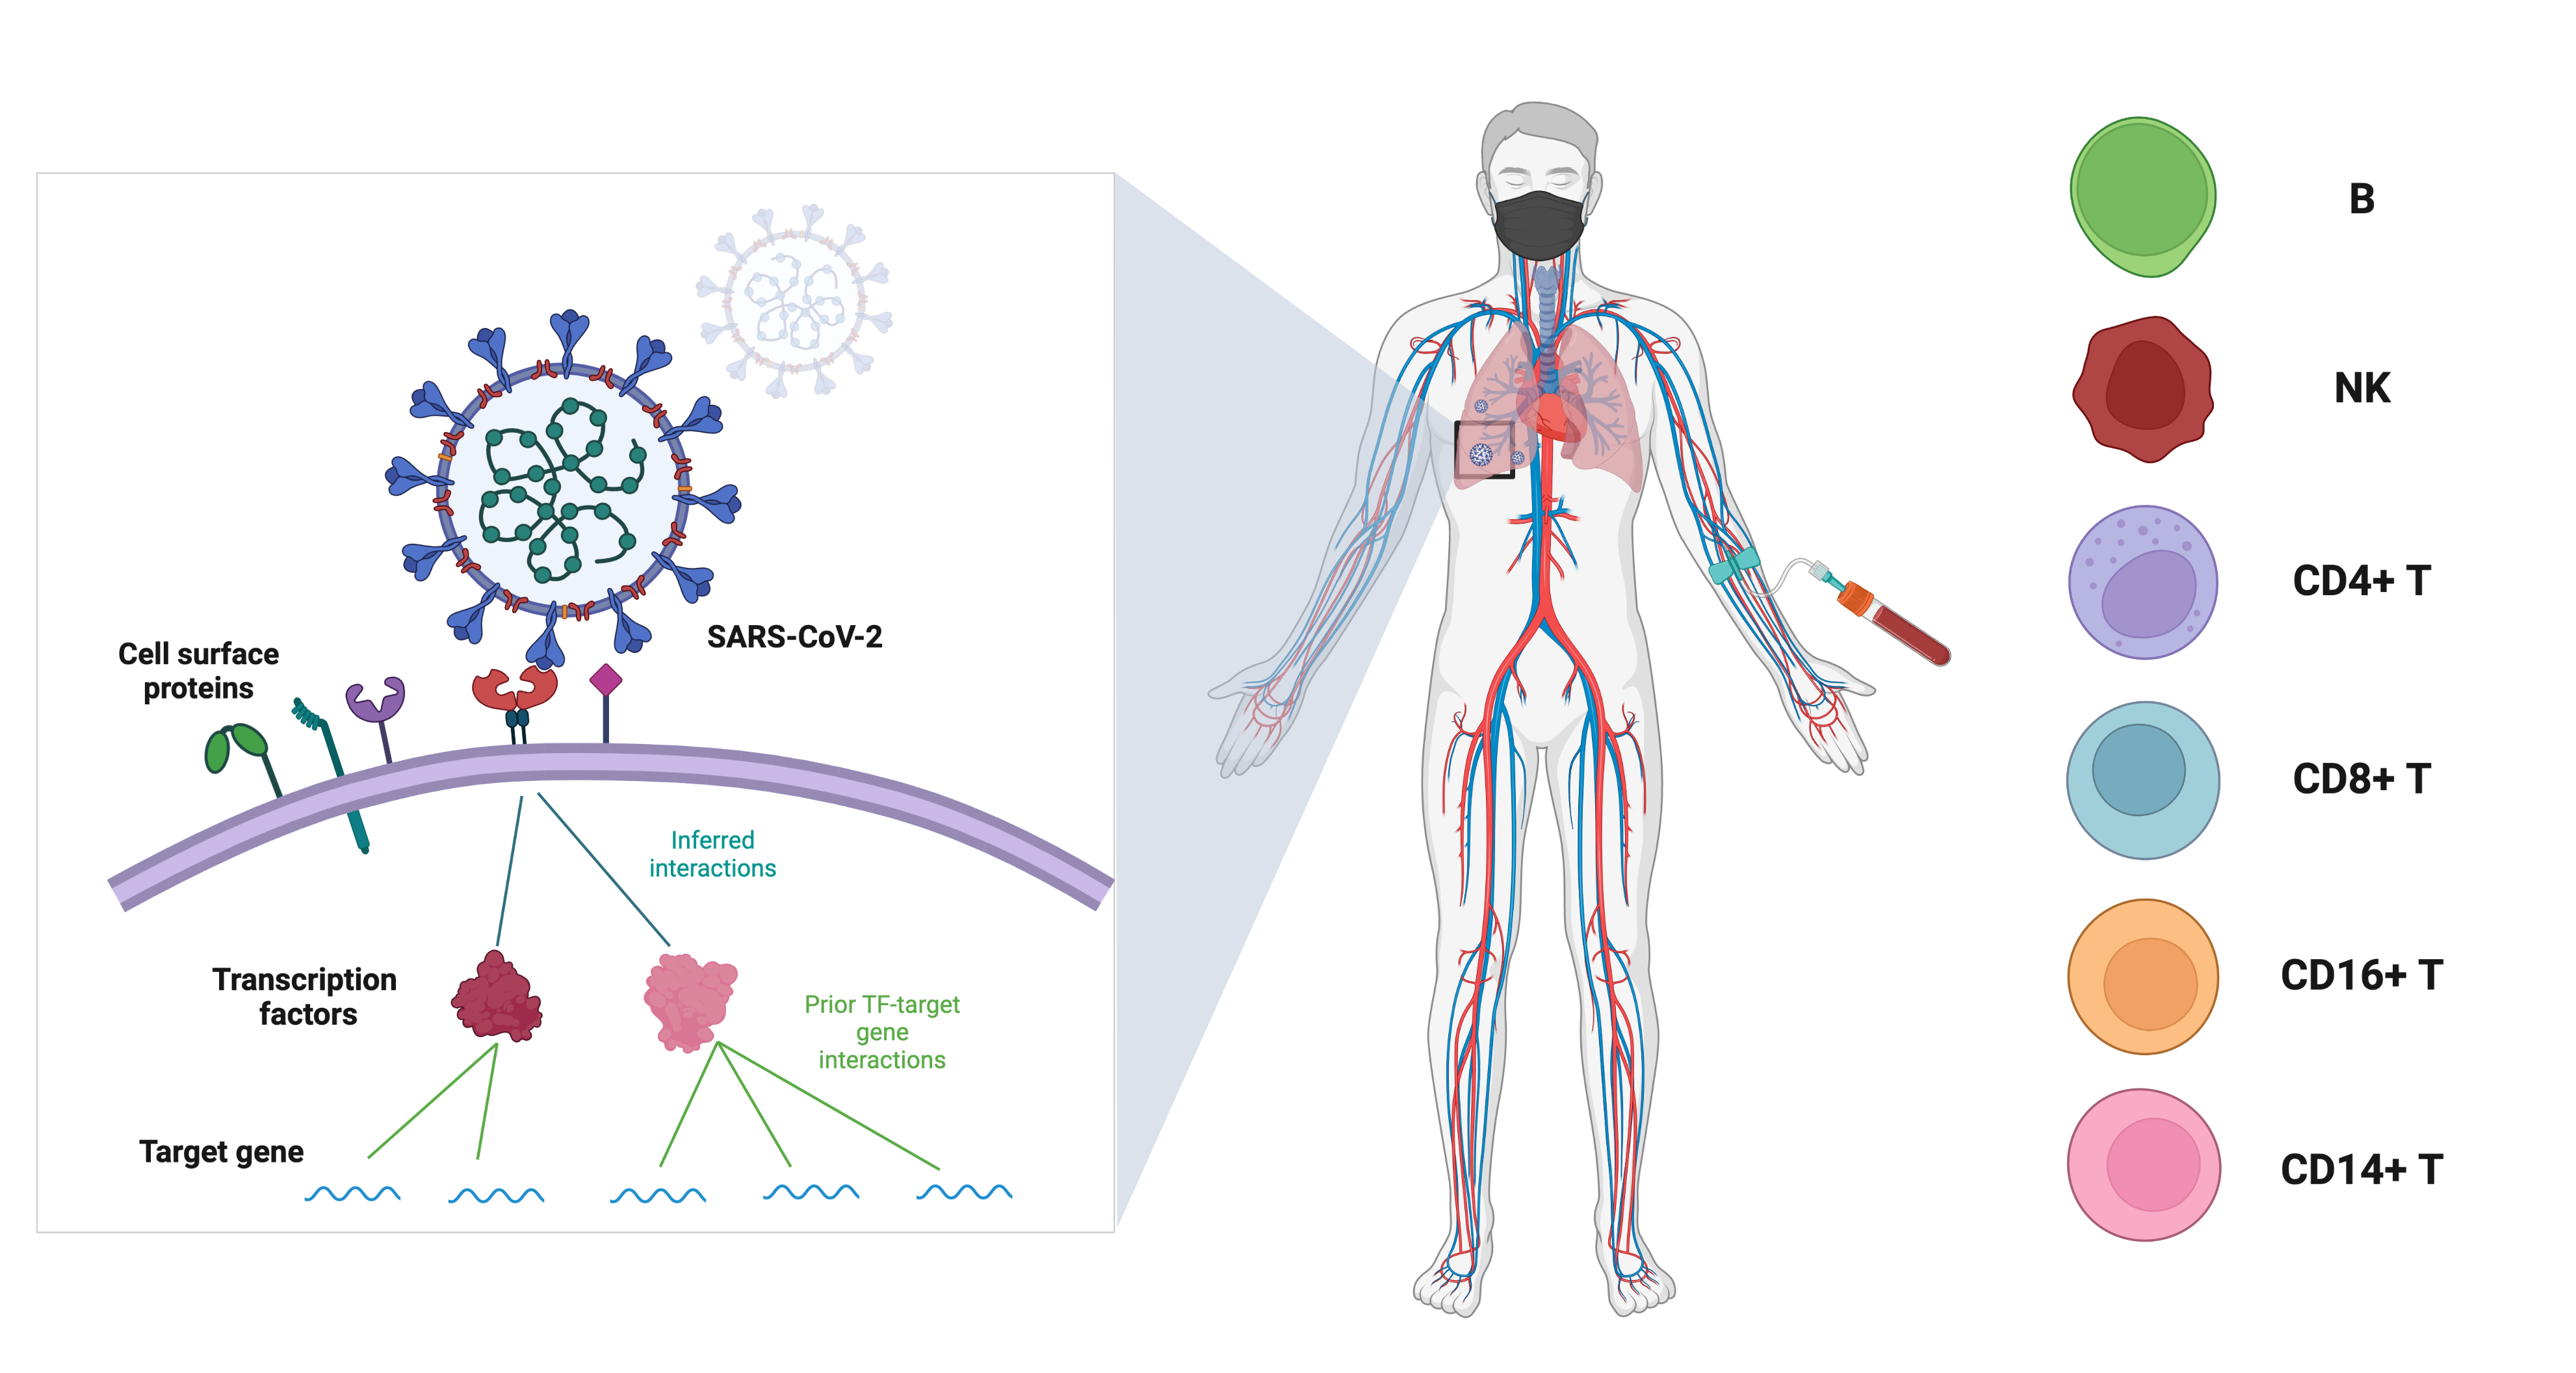
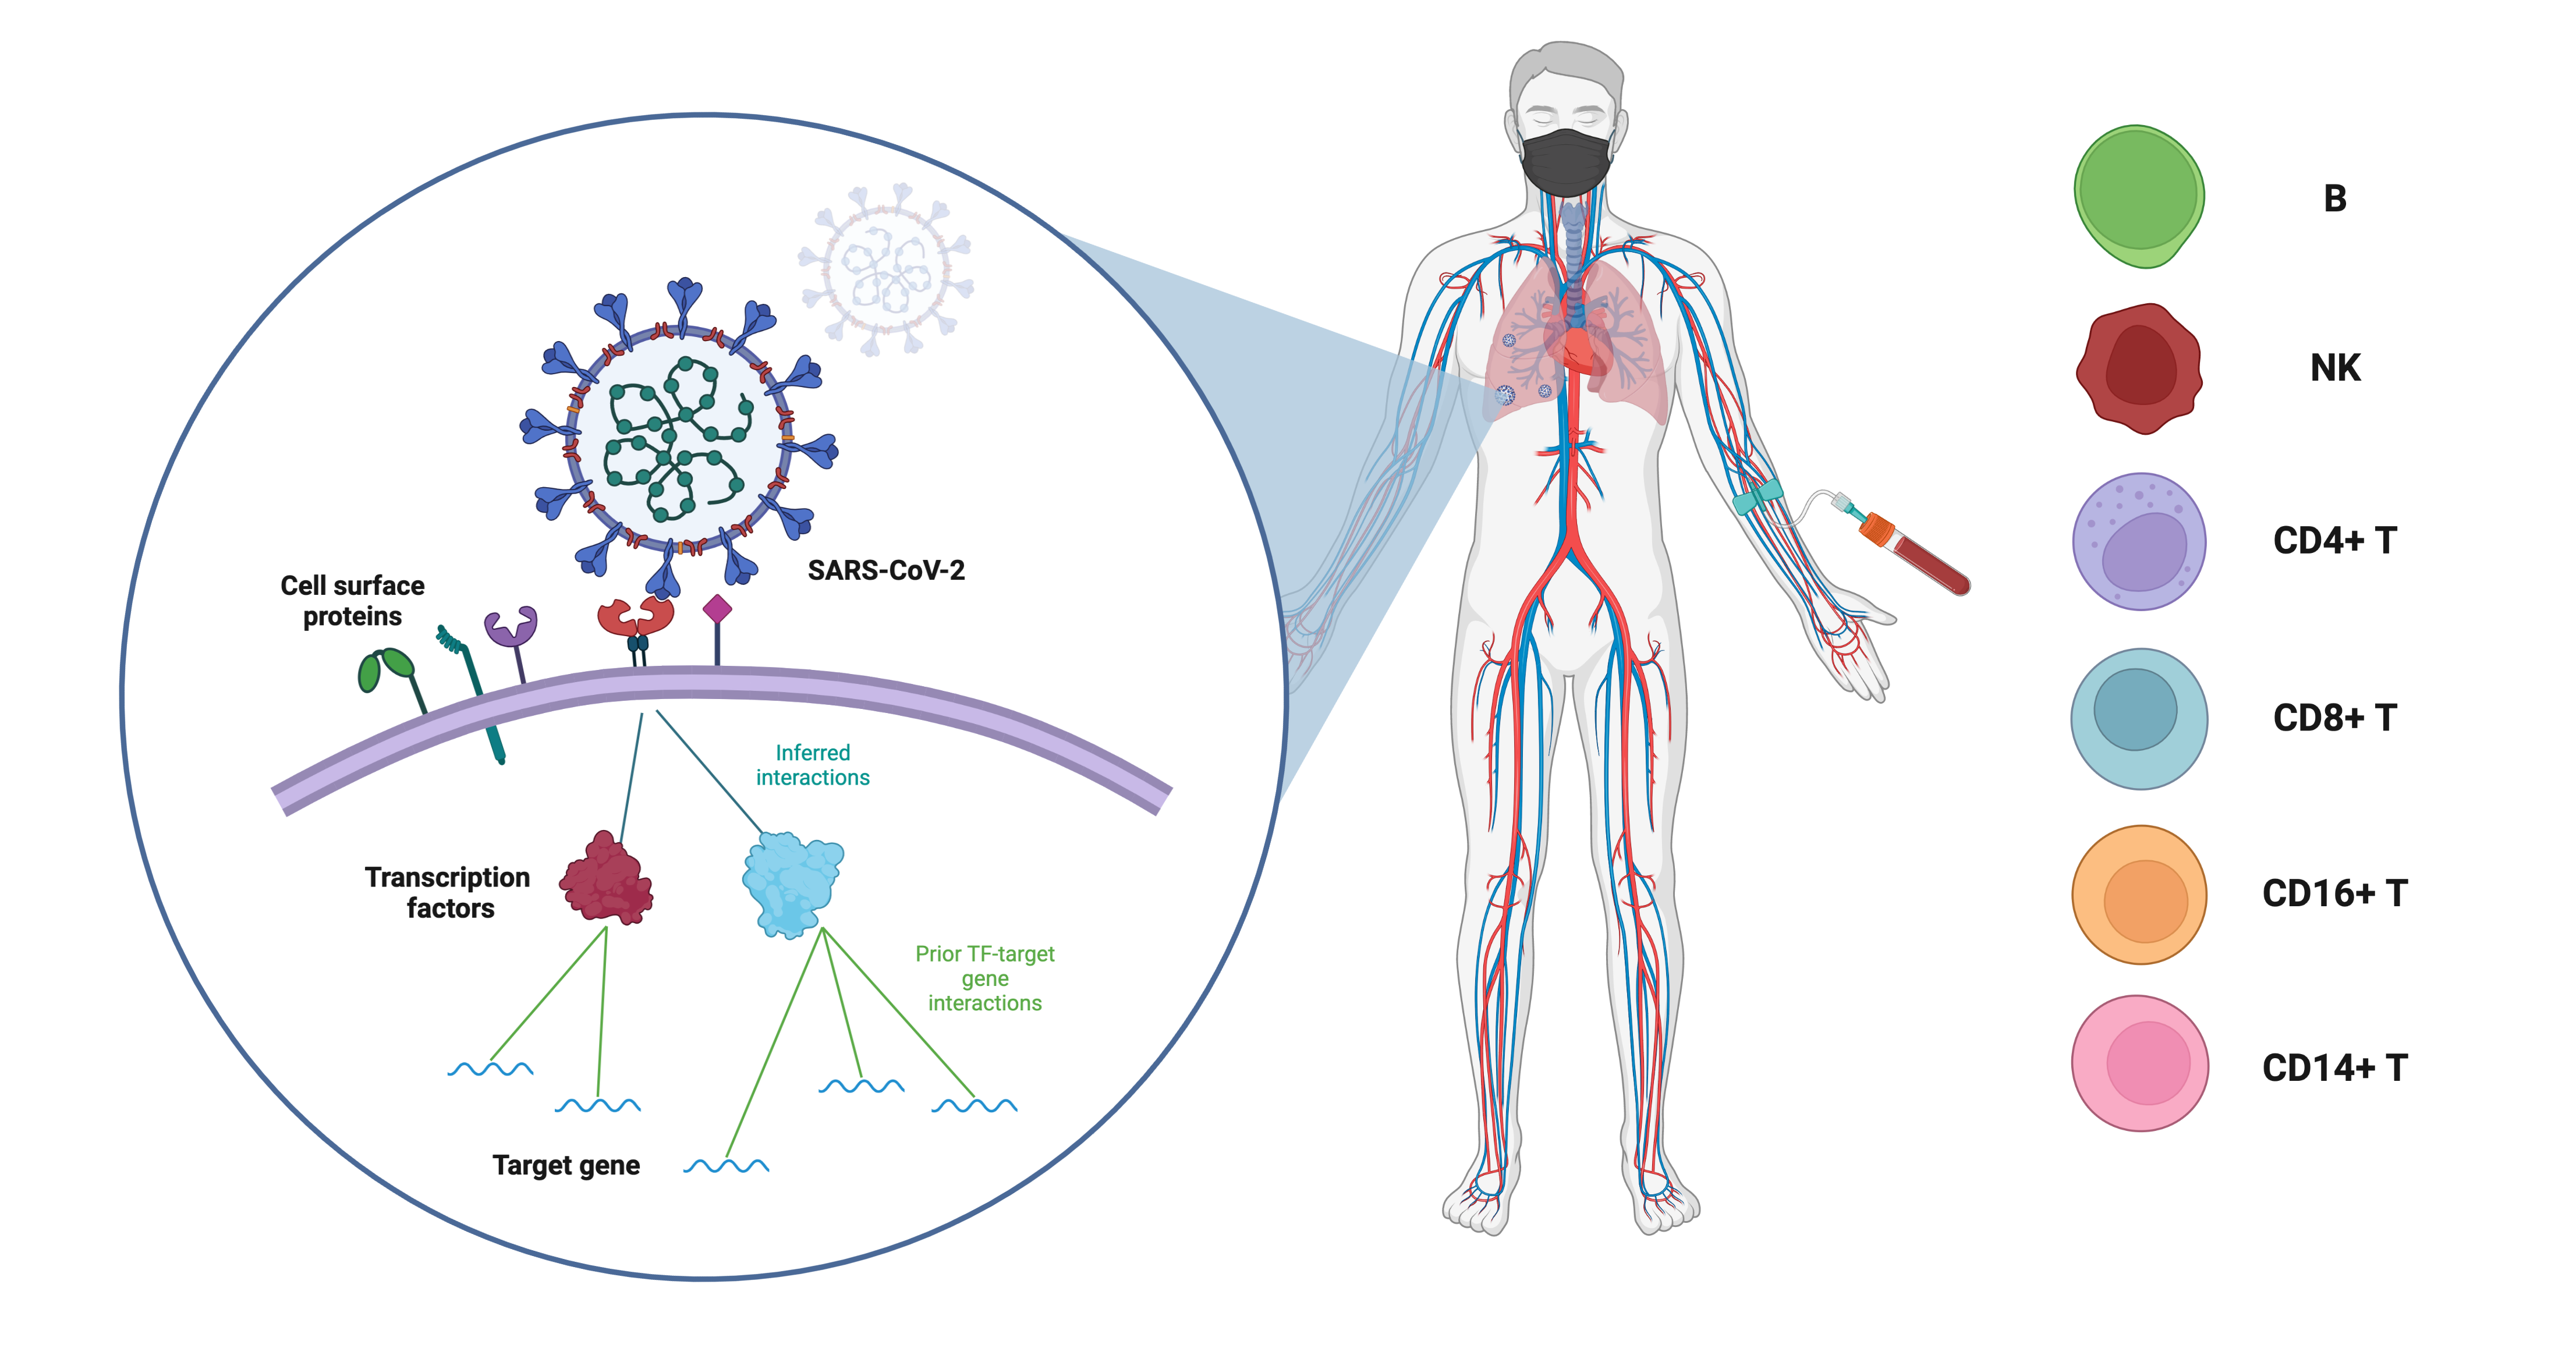
prototype dataset page

diff --git a/utils/ppi.html b/utils/ppi.html
@@ -1,0 +1,108 @@
+<html>
+<head>
+<link rel="stylesheet" href="https://cdnjs.cloudflare.com/ajax/libs/vis/4.16.1/vis.css" type="text/css" />
+<script type="text/javascript" src="https://cdnjs.cloudflare.com/ajax/libs/vis/4.16.1/vis-network.min.js"> </script>
+<center>
+<h1></h1>
+</center>
+
+<!-- <link rel="stylesheet" href="../node_modules/vis/dist/vis.min.css" type="text/css" />
+<script type="text/javascript" src="../node_modules/vis/dist/vis.js"> </script>-->
+
+<style type="text/css">
+
+        #mynetwork {
+            width: 500px;
+            height: 500px;
+            background-color: #ffffff;
+            border: 1px solid lightgray;
+            position: relative;
+            float: left;
+        }
+
+        
+
+        
+
+        
+</style>
+
+</head>
+
+<body>
+<div id = "mynetwork"></div>
+
+
+<script type="text/javascript">
+
+    // initialize global variables.
+    var edges;
+    var nodes;
+    var network; 
+    var container;
+    var options, data;
+
+    
+    // This method is responsible for drawing the graph, returns the drawn network
+    function drawGraph() {
+        var container = document.getElementById('mynetwork');
+        
+        
+
+        // parsing and collecting nodes and edges from the python
+        nodes = new vis.DataSet([{"color": "#7f5159", "id": "IRF8", "label": "IRF8", "shape": "dot"}, {"color": "#30ffce", "id": "GATA2", "label": "GATA2", "shape": "dot"}, {"color": "#143ce3", "id": "IRF4", "label": "IRF4", "shape": "dot"}, {"color": "#839d39", "id": "TBP", "label": "TBP", "shape": "dot"}, {"color": "#daebc2", "id": "GATA1", "label": "GATA1", "shape": "dot"}, {"color": "#c9fdfd", "id": "JUN", "label": "JUN", "shape": "dot"}, {"color": "#fadfa4", "id": "CEBPA", "label": "CEBPA", "shape": "dot"}, {"color": "#ed1f79", "id": "CSF3R", "label": "CSF3R", "shape": "dot"}, {"color": "#9acddb", "id": "CEBPE", "label": "CEBPE", "shape": "dot"}, {"color": "#25cd07", "id": "EP300", "label": "EP300", "shape": "dot"}, {"color": "#7b9dcb", "id": "JAK1", "label": "JAK1", "shape": "dot"}, {"color": "#2dfd2", "id": "SRC", "label": "SRC", "shape": "dot"}, {"color": "#4b4621", "id": "HIF1A", "label": "HIF1A", "shape": "dot"}, {"color": "#eebee1", "id": "PIAS3", "label": "PIAS3", "shape": "dot"}, {"color": "#6b631b", "id": "EGFR", "label": "EGFR", "shape": "dot"}, {"color": "#c57662", "id": "JAK2", "label": "JAK2", "shape": "dot"}, {"color": "#d48511", "id": "HSP90AA1", "label": "HSP90AA1", "shape": "dot"}, {"color": "#c5180d", "id": "IL10RA", "label": "IL10RA", "shape": "dot"}, {"color": "#c18eff", "id": "NANOG", "label": "NANOG", "shape": "dot"}, {"color": "#324c74", "id": "ATF2", "label": "ATF2", "shape": "dot"}, {"color": "#8eb96d", "id": "SMAD3", "label": "SMAD3", "shape": "dot"}, {"color": "#c701c9", "id": "BATF3", "label": "BATF3", "shape": "dot"}, {"color": "#e6fc5f", "id": "MAPK8", "label": "MAPK8", "shape": "dot"}, {"color": "#e2263b", "id": "CTNNB1", "label": "CTNNB1", "shape": "dot"}, {"color": "#571bdc", "id": "FOS", "label": "FOS", "shape": "dot"}, {"color": "#efe37c", "id": "MAPK10", "label": "MAPK10", "shape": "dot"}, {"color": "#c1aaf0", "id": "FOSL1", "label": "FOSL1", "shape": "dot"}, {"color": "#a8dd6d", "id": "MAPK9", "label": "MAPK9", "shape": "dot"}, {"color": "#9a3a40", "id": "SPI1", "label": "SPI1", "shape": "dot"}, {"color": "#17288b", "id": "STAT3", "label": "STAT3", "shape": "dot"}, {"color": "#ddcdf5", "id": "BATF", "label": "BATF", "shape": "dot"}, {"color": "#4f40bf", "id": "MYD88", "label": "MYD88", "shape": "dot"}, {"color": "#7d6d7c", "id": "BCL6", "label": "BCL6", "shape": "dot"}, {"color": "#f87d33", "id": "FOXP3", "label": "FOXP3", "shape": "dot"}, {"color": "#ca9e3c", "id": "NFATC2", "label": "NFATC2", "shape": "dot"}, {"color": "#f9d0da", "id": "NFATC1", "label": "NFATC1", "shape": "dot"}, {"color": "#33d35d", "id": "PPARGC1A", "label": "PPARGC1A", "shape": "dot"}]);
+        edges = new vis.DataSet([{"from": "SPI1", "to": "IRF8", "value": 0.0999}, {"from": "SPI1", "to": "GATA2", "value": 0.0998}, {"from": "SPI1", "to": "IRF4", "value": 0.0997}, {"from": "SPI1", "to": "TBP", "value": 0.0996}, {"from": "SPI1", "to": "GATA1", "value": 0.0995}, {"from": "SPI1", "to": "JUN", "value": 0.0993}, {"from": "SPI1", "to": "CEBPA", "value": 0.0993}, {"from": "SPI1", "to": "CSF3R", "value": 0.0988}, {"from": "SPI1", "to": "CEBPE", "value": 0.0985}, {"from": "SPI1", "to": "EP300", "value": 0.0984}, {"from": "STAT3", "to": "JAK1", "value": 0.0999}, {"from": "STAT3", "to": "SRC", "value": 0.0999}, {"from": "STAT3", "to": "HIF1A", "value": 0.0999}, {"from": "STAT3", "to": "PIAS3", "value": 0.0999}, {"from": "STAT3", "to": "EGFR", "value": 0.0999}, {"from": "STAT3", "to": "JAK2", "value": 0.0999}, {"from": "STAT3", "to": "HSP90AA1", "value": 0.0999}, {"from": "STAT3", "to": "EP300", "value": 0.0999}, {"from": "STAT3", "to": "IL10RA", "value": 0.0998}, {"from": "STAT3", "to": "NANOG", "value": 0.0998}, {"from": "JUN", "to": "ATF2", "value": 0.0999}, {"from": "JUN", "to": "EP300", "value": 0.0999}, {"from": "JUN", "to": "SMAD3", "value": 0.0999}, {"from": "JUN", "to": "BATF3", "value": 0.0999}, {"from": "JUN", "to": "MAPK8", "value": 0.0999}, {"from": "JUN", "to": "CTNNB1", "value": 0.0999}, {"from": "JUN", "to": "FOS", "value": 0.0999}, {"from": "JUN", "to": "MAPK10", "value": 0.0999}, {"from": "JUN", "to": "FOSL1", "value": 0.0999}, {"from": "JUN", "to": "MAPK9", "value": 0.0999}, {"from": "IRF4", "to": "JUN", "value": 0.0997}, {"from": "IRF4", "to": "STAT3", "value": 0.0994}, {"from": "IRF4", "to": "BATF", "value": 0.0992}, {"from": "IRF4", "to": "MYD88", "value": 0.0991}, {"from": "IRF4", "to": "BCL6", "value": 0.0991}, {"from": "IRF4", "to": "FOXP3", "value": 0.0989}, {"from": "IRF4", "to": "NFATC2", "value": 0.0986}, {"from": "IRF4", "to": "NFATC1", "value": 0.09809999999999999}, {"from": "IRF4", "to": "PPARGC1A", "value": 0.0974}]);
+
+        // adding nodes and edges to the graph
+        data = {nodes: nodes, edges: edges};
+
+        var options = {
+    "configure": {
+        "enabled": false
+    },
+    "edges": {
+        "color": {
+            "inherit": true
+        },
+        "smooth": {
+            "enabled": false,
+            "type": "continuous"
+        }
+    },
+    "interaction": {
+        "dragNodes": true,
+        "hideEdgesOnDrag": false,
+        "hideNodesOnDrag": false
+    },
+    "physics": {
+        "enabled": true,
+        "stabilization": {
+            "enabled": true,
+            "fit": true,
+            "iterations": 1000,
+            "onlyDynamicEdges": false,
+            "updateInterval": 50
+        }
+    }
+};
+        
+        
+
+        
+
+        network = new vis.Network(container, data, options);
+	 
+        
+
+
+        
+
+        return network;
+
+    }
+
+    drawGraph();
+
+</script>
+</body>
+</html>

diff --git a/app_v2.py b/app_v2.py
@@ -8,13 +8,15 @@ from navigation.home import home_page
 from navigation.stats import stats_page
 from utils.components import make_tab
 from utils.dataloaders import load_data, litcov_search
-
+from st_aggrid import AgGrid, GridUpdateMode
+from st_aggrid.grid_options_builder import GridOptionsBuilder
+from st_aggrid.shared import JsCode
 
 from utils.components import ppi
 from texts.descriptions import Desc
 
 st.set_page_config(
-    page_title="Covid19-Database Demo",
+    page_title="SPaRTAN COVID-19db",
     page_icon="",
     layout="wide",
     initial_sidebar_state="expanded",
@@ -22,19 +24,19 @@ st.set_page_config(
 )
 
 hide_streamlit_style = """
-<style>
-    MainMenu {visibility: hidden;}
-    footer {visibility: hidden;}
-    footer:after {
-        content:'Created by Koushul using Streamlit and BioRender'; 
-        visibility: visible;
-        display: block;
-        position: relative;
-        #background-color: red;
-        padding: 5px;
-        top: 2px;
-    }
-</style>
+    <style>
+        MainMenu {visibility: hidden;}
+        footer {visibility: hidden;}
+        footer:after {
+            content:'Created by Koushul using Streamlit and BioRender'; 
+            visibility: visible;
+            display: block;
+            position: relative;
+            #background-color: red;
+            padding: 5px;
+            top: 2px;
+        }
+    </style>
 """
 
 # st.markdown("""<img src="file:///ihome/hosmanbeyoglu/kor11/tools/spartan_webapp/assets/cells/Monocytes.png"></img>
@@ -86,18 +88,52 @@ P, tf_severity = load_data()
 
 if chosen_tab == 'Home':
     st.title('Welcome to SPaRTAN COVID-19db') ## Title
-    st.markdown('#### ' + Desc.home)
+    st.write(Desc.home)
     home_page()
     
 elif chosen_tab == 'Dataset':
     st.header('Dataset Browser')
-    st.markdown('##### ' + Desc.ds)
+    st.info(Desc.ds)
+    data = {
+        'name': ['E-MTAB-9357', 'GSE155673', '', 'GSE167118'],
+        'organism': ['Homo sapiens', 'Homo sapiens', 'Homo sapiens', 'Homo sapiens'],
+        'patients': ['270', '12', '143', '93'],
+        'platform': ['10X Genomics Chromium', 'Illumina HiSeq 4000', '', 'Illumina NovaSeq 6000'],
+        'url': [
+            'https://www.ebi.ac.uk/biostudies/arrayexpress/studies/E-MTAB-9357',
+            'https://www.ncbi.nlm.nih.gov/geo/query/acc.cgi?acc=GSE155673', 
+            'https://www.covid19cellatlas.org/index.patient.html', 
+            'https://www.ncbi.nlm.nih.gov/geo/query/acc.cgi?acc=GSE167118'
+        ]
+    }
+    df = pd.DataFrame(data)
+    gd = GridOptionsBuilder.from_dataframe(df)
+    # cell_renderer =  JsCode("""
+    #     function(params) {return `<a href=${params.value} target="_blank">${params.value}</a>`}
+    #     """)
+
+    # gd.configure_column("url", cellRenderer=cell_renderer, allow_unsafe_jscode=True)
+    gd.configure_selection(selection_mode='multiple', use_checkbox=True)
+    gridoptions = gd.build()
+
+    grid_table = AgGrid(df, 
+        gridOptions=gridoptions,
+        update_mode=GridUpdateMode.SELECTION_CHANGED, 
+        fit_columns_on_grid_load=True,
+        height=150,
+        width='100%',
+        theme="streamlit"
+    )
+
+    st.write('## Selected')
+    selected_row = grid_table["selected_rows"]
+    st.write(selected_row)
     
     
     
 elif chosen_tab == 'Transcription Factors':
     st.header('TF Exploration')
-    st.markdown('##### ' + Desc.tf)
+    st.info(Desc.tf)
     
     ref = 'Literature References'
     default_idx = list(tf_severity.index).index('IRF4')